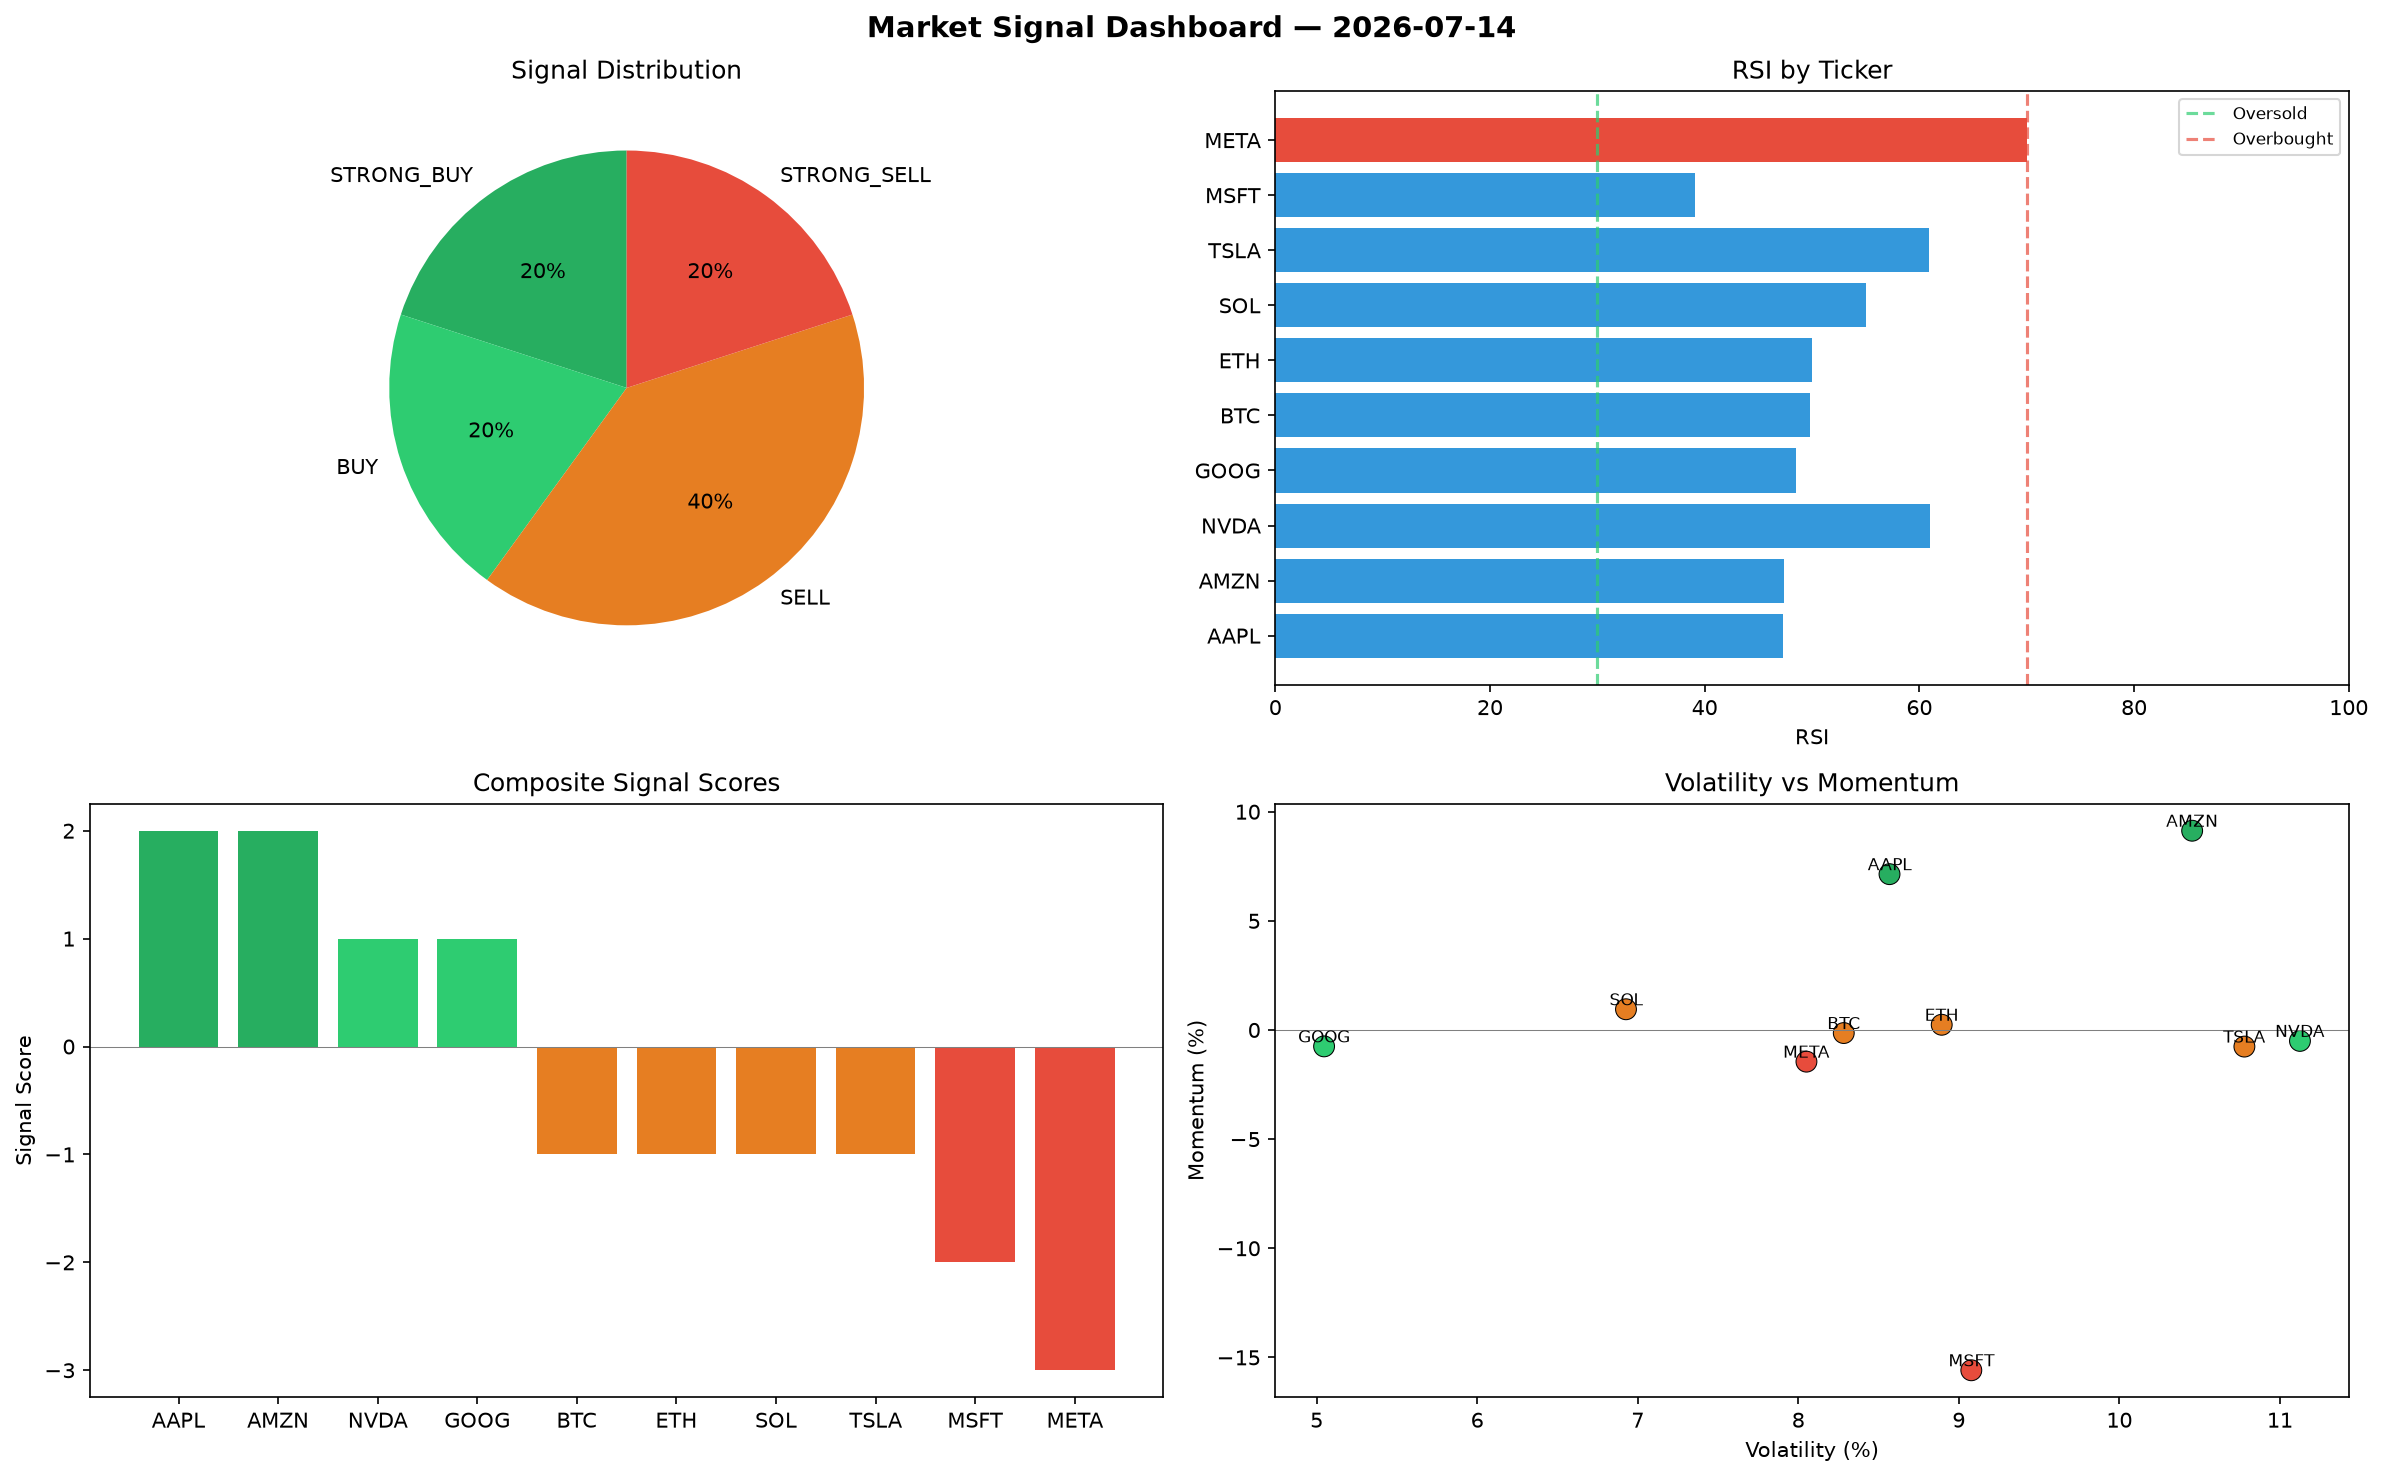
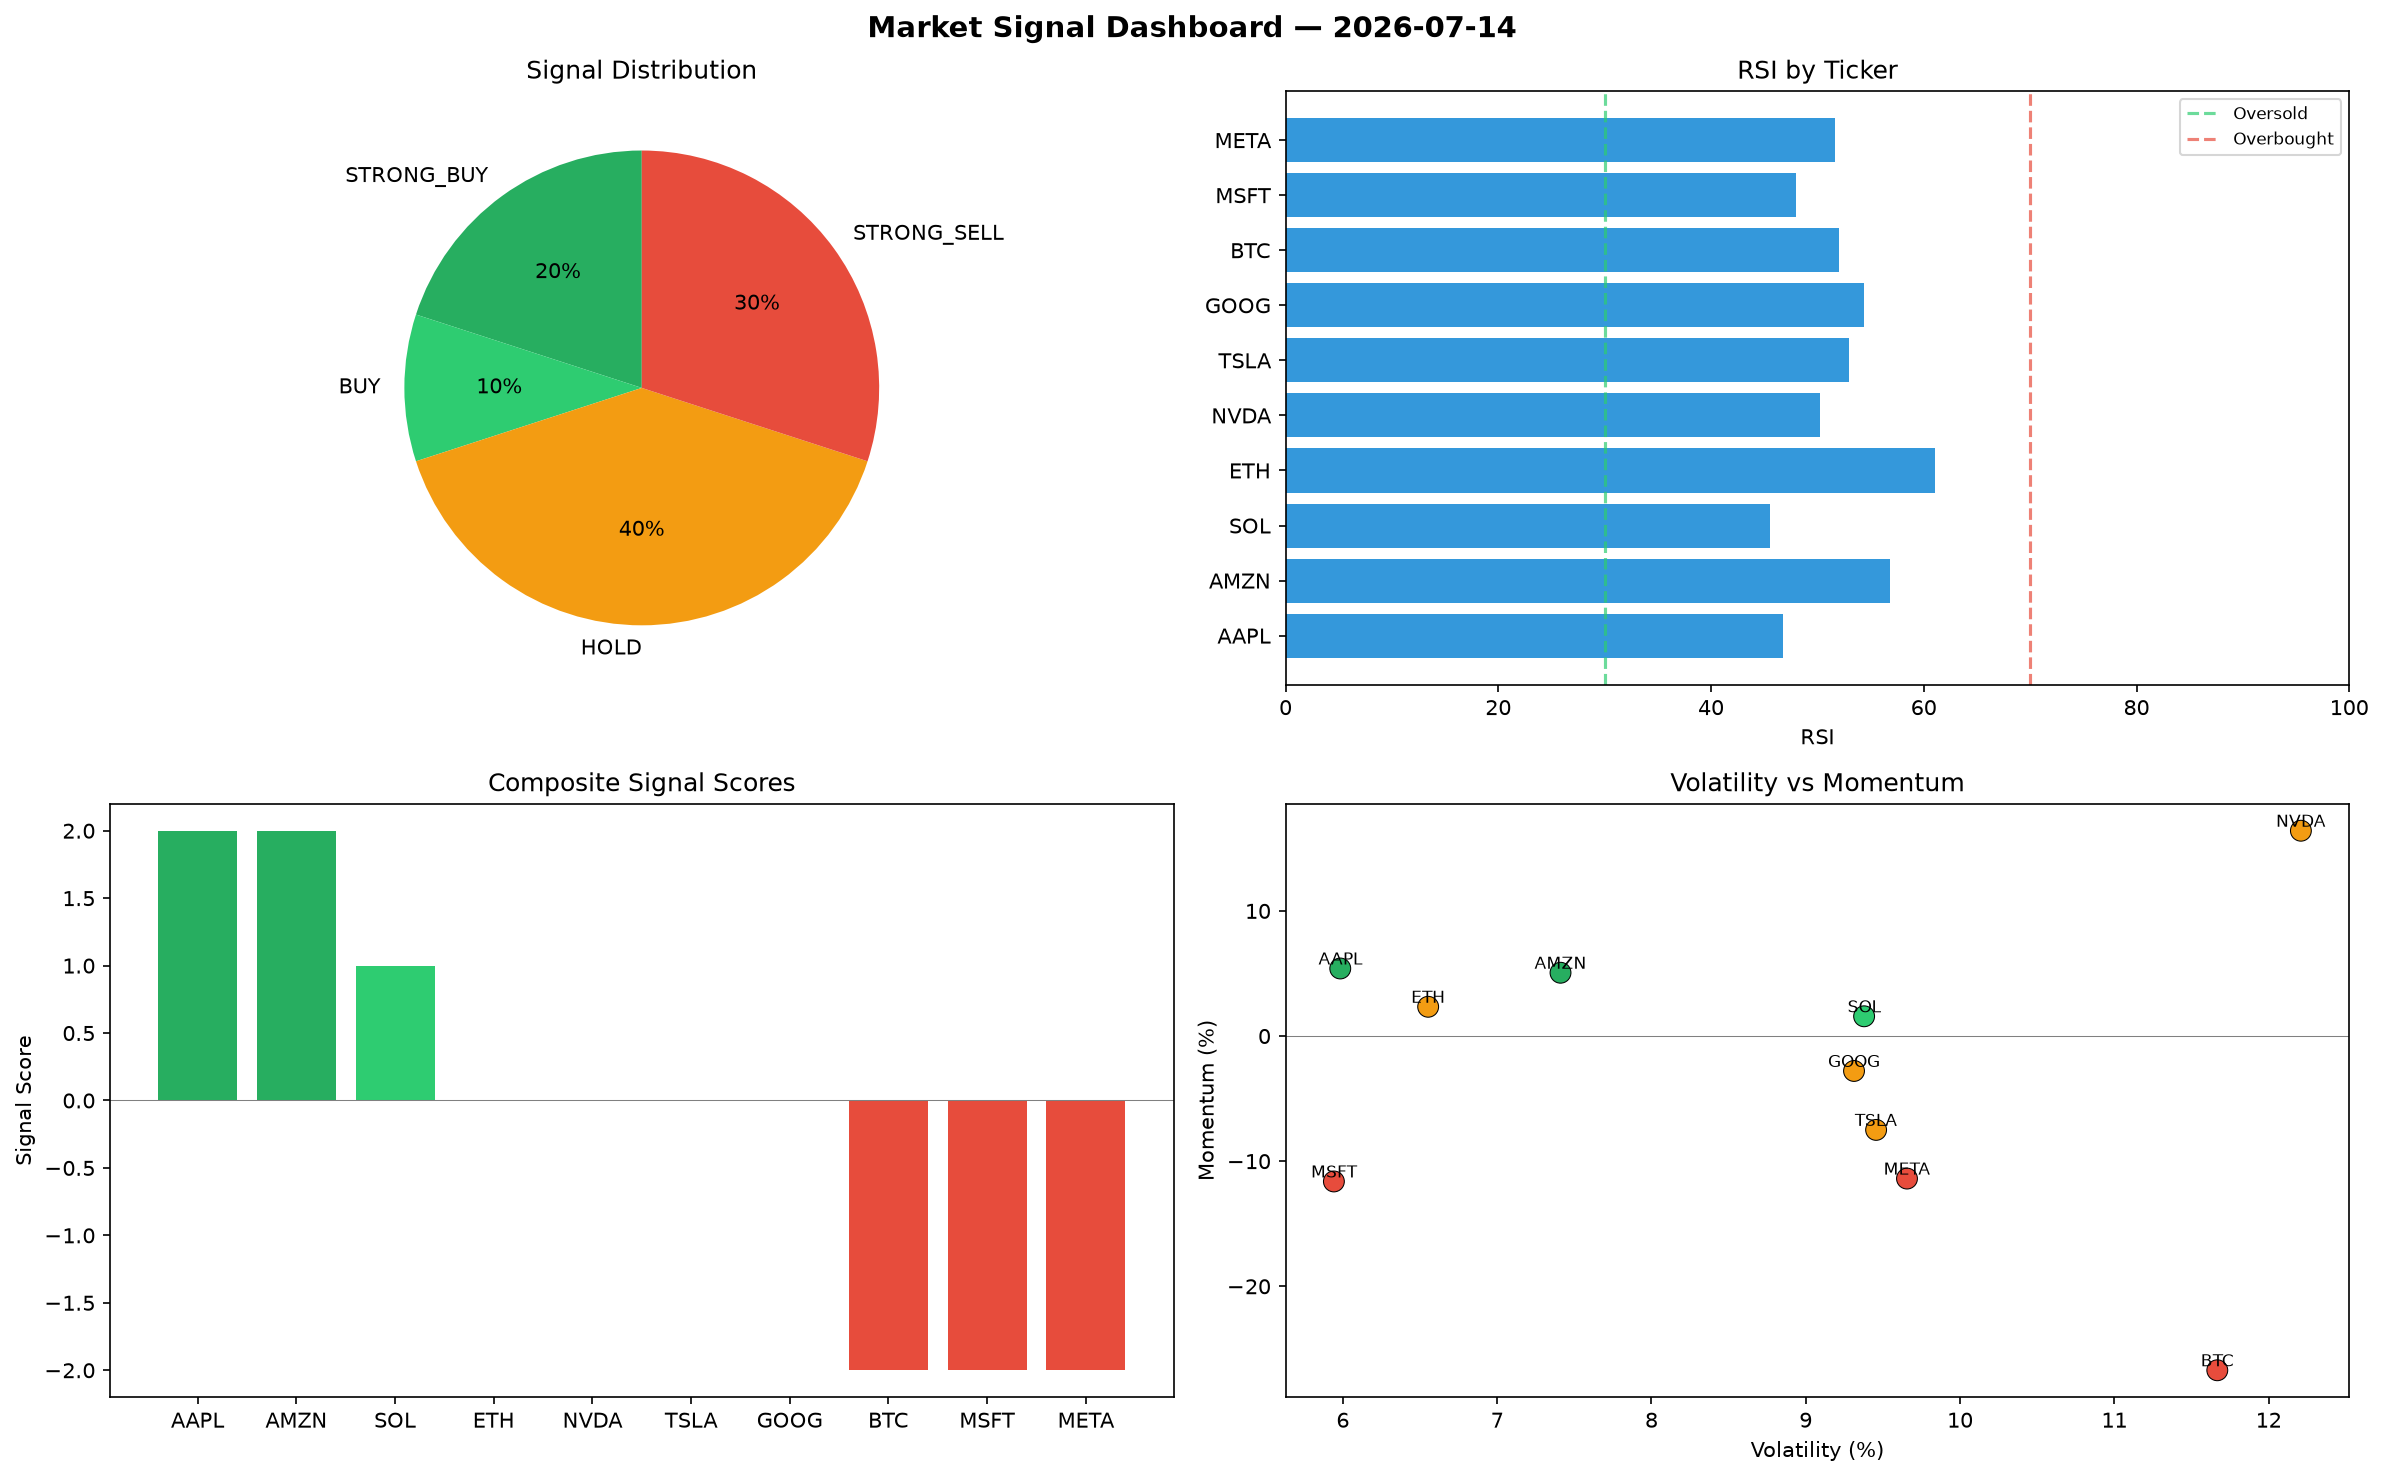
automated-bots: market signals 2026-07-14T10:14

diff --git a/logs/2026-07-14.md b/logs/2026-07-14.md
@@ -1,6 +1,6 @@
 # Market Signal Report — 2026-07-14
 
-**Run ID:** `1512d9ad77` | **Buy:** 4 | **Sell:** 6 | **Hold:** 0
+**Run ID:** `062a263dec` | **Buy:** 3 | **Sell:** 3 | **Hold:** 4
 
 ![Dashboard](2026-07-14_dashboard.png)
 
@@ -8,28 +8,28 @@
 
 | Ticker | Price | Signal | Score | RSI | Momentum | Confidence |
 |--------|-------|--------|-------|-----|----------|------------|
-| AAPL | $1952.76 | **STRONG_BUY** | 2 | 47.3 | 0.0714 | 0.5 |
-| AMZN | $4083.66 | **STRONG_BUY** | 2 | 47.42 | 0.0913 | 0.5 |
-| NVDA | $4021.65 | **BUY** | 1 | 61.02 | -0.005 | 0.25 |
-| GOOG | $1461.89 | **BUY** | 1 | 48.51 | -0.0075 | 0.25 |
-| BTC | $872.08 | **SELL** | -1 | 49.78 | -0.0014 | 0.25 |
-| ETH | $4442.71 | **SELL** | -1 | 50.04 | 0.0024 | 0.25 |
-| SOL | $1429.88 | **SELL** | -1 | 55.05 | 0.0095 | 0.25 |
-| TSLA | $2625.69 | **SELL** | -1 | 60.89 | -0.0076 | 0.25 |
-| MSFT | $4166.18 | **STRONG_SELL** | -2 | 39.06 | -0.1559 | 0.5 |
-| META | $1918.51 | **STRONG_SELL** | -3 | 70.04 | -0.0145 | 0.75 |
+| AAPL | $4621.88 | **STRONG_BUY** | 2 | 46.78 | 0.054 | 0.5 |
+| AMZN | $3793.39 | **STRONG_BUY** | 2 | 56.85 | 0.0506 | 0.5 |
+| SOL | $409.86 | **BUY** | 1 | 45.59 | 0.0158 | 0.25 |
+| ETH | $1559.66 | **HOLD** | 0 | 61.1 | 0.0234 | 0.0 |
+| NVDA | $4040.59 | **HOLD** | 0 | 50.22 | 0.1641 | 0.0 |
+| TSLA | $17.77 | **HOLD** | 0 | 52.93 | -0.075 | 0.0 |
+| GOOG | $2051.27 | **HOLD** | 0 | 54.4 | -0.0279 | 0.0 |
+| BTC | $3282.9 | **STRONG_SELL** | -2 | 52.03 | -0.2671 | 0.5 |
+| MSFT | $2816.04 | **STRONG_SELL** | -2 | 48.0 | -0.1162 | 0.5 |
+| META | $3915.32 | **STRONG_SELL** | -2 | 51.7 | -0.1139 | 0.5 |
 
 ## Delta vs Yesterday
 
 | Ticker | Today | Yesterday | Price Change | Signal Changed |
 |--------|-------|-----------|-------------|----------------|
-| AAPL | STRONG_BUY | STRONG_BUY | 📉 -5.3% | — |
-| AMZN | STRONG_BUY | BUY | 📈 232.22% | ⚠ YES |
-| NVDA | BUY | HOLD | 📉 -8.31% | ⚠ YES |
-| GOOG | BUY | HOLD | 📉 -49.88% | ⚠ YES |
-| BTC | SELL | HOLD | 📈 277.59% | ⚠ YES |
-| ETH | SELL | SELL | 📈 1207.53% | — |
-| SOL | SELL | STRONG_BUY | 📈 172.82% | ⚠ YES |
-| TSLA | SELL | HOLD | 📈 233.28% | ⚠ YES |
-| MSFT | STRONG_SELL | STRONG_BUY | 📈 199.21% | ⚠ YES |
-| META | STRONG_SELL | HOLD | 📉 -60.72% | ⚠ YES |
+| AAPL | STRONG_BUY | STRONG_BUY | 📈 124.14% | — |
+| AMZN | STRONG_BUY | BUY | 📈 208.61% | ⚠ YES |
+| SOL | BUY | STRONG_BUY | 📉 -21.8% | ⚠ YES |
+| ETH | HOLD | SELL | 📈 359.02% | ⚠ YES |
+| NVDA | HOLD | HOLD | 📉 -7.88% | — |
+| TSLA | HOLD | HOLD | 📉 -97.74% | — |
+| GOOG | HOLD | HOLD | 📉 -29.68% | — |
+| BTC | STRONG_SELL | HOLD | 📈 1321.41% | ⚠ YES |
+| MSFT | STRONG_SELL | STRONG_BUY | 📈 102.25% | ⚠ YES |
+| META | STRONG_SELL | HOLD | 📉 -19.83% | ⚠ YES |
